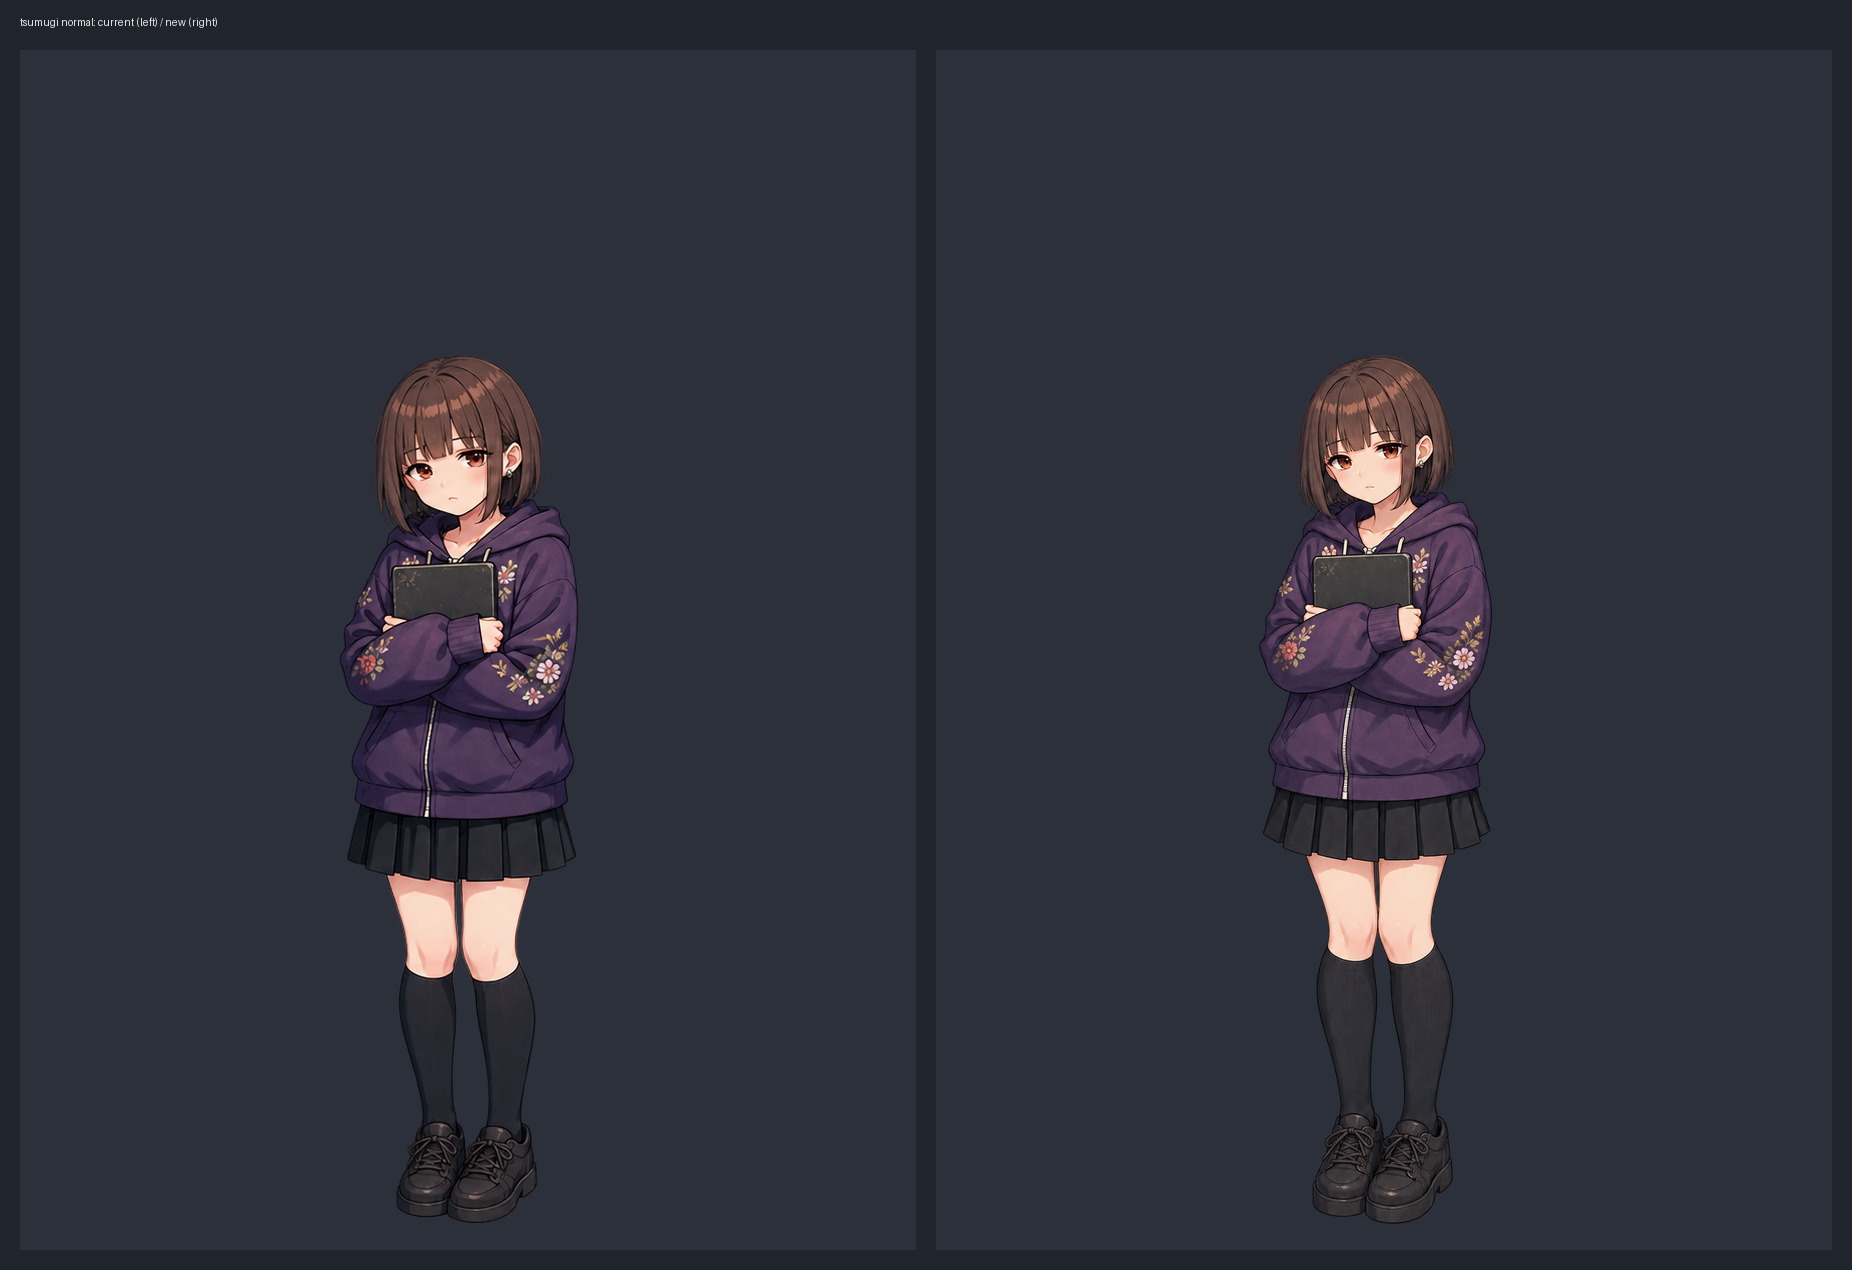
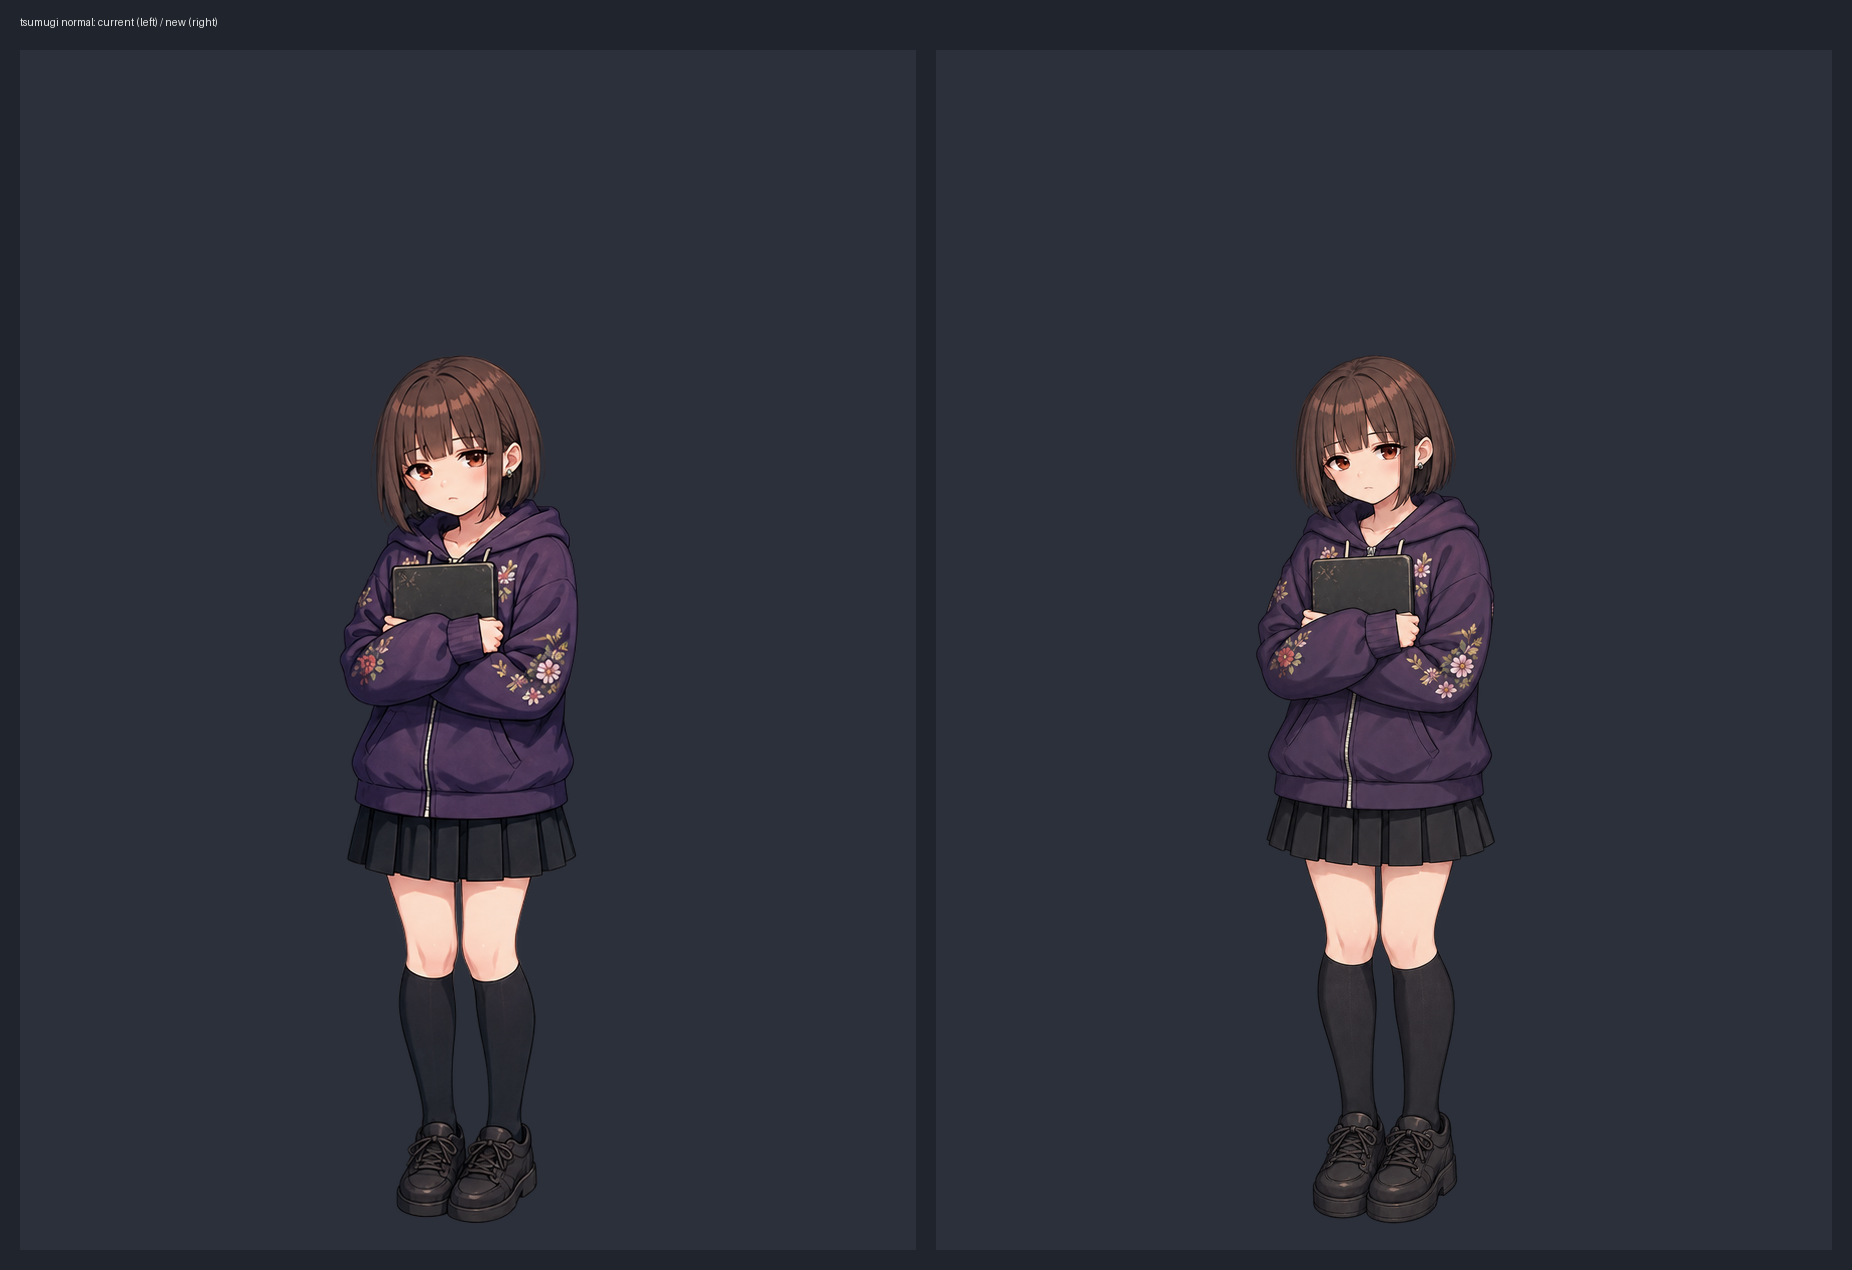
art: preserve stage-one trials and prefer Tsumugi rounder head

Changed region(s): [[0.6771, 0.2764, 0.8002, 0.7677], [0.7079, 0.8598, 0.8002, 0.952]]

diff --git a/asset_sources/portraits/resolution-upgrade-20261009/prompts.md b/asset_sources/portraits/resolution-upgrade-20261009/prompts.md
@@ -3,9 +3,11 @@
 [調査と方針](README.md)。2026-10-09 オーナー決定：**顔の大きさが中央値から±10%を超える6人だけ直す**／**画風はみんと・アゲハに合わせる**。
 1回の生成で1人・1表情。各ブロックの英文と、ブロックに書いたリポジトリの参照画像4枚で1回ずつ生成する。全34表情。参照画像は**エージェントがリポジトリから直接読み込む**（オーナーが保存・添付する必要はない）。
 
+> 2026-10-10 追記（要望台帳 PU02）：主目的は画風と解像度をそろえること。つむぎはやや頭が大きい方が可愛いという指定を優先し、頭の縮小率より丸さ・可愛さを保つ。つむぎの7ブロック末尾の追記が、以前の10%縮小指定に優先する。
+
 | キャラ | いまの顔の大きさ（中央値比） | 直し方 | 画風の直し | 表情数 |
 |---|---|---|---|---|
-| つむぎ | +18% | 頭を約10%小さく（丸さは残す。仕上がり目安+6%） | 基準に合わせる | 7 |
+| つむぎ | +18% | やや大きめの頭と丸さ・可愛さを優先。10%縮小は強制しない（2026-10-10追記） | 基準に合わせる | 7 |
 | 前園 | +17% | 頭を約14%小さく | 平たい塗り・太い線を基準へ | 5 |
 | スミさん | +15% | 頭（帽子込み）を約13%小さく | 基準に合わせる | 5 |
 | ましろ | +13% | 頭を約8%小さく（丸さは残す。仕上がり目安+4%） | 基準に合わせる | 6 |
@@ -78,6 +80,8 @@ Keep the same total figure height and the same overall silhouette and stance; on
 STYLE UNIFICATION: match the approved Minto and Ageha sprites - fine high-resolution pixel-like game-art texture, thin crisp dark ink lines, restrained matte multi-step shading, small hand-drawn grain, natural non-glossy highlights. Keep her soft quiet charm and warm brown eyes; do not make her look older. Keep a slightly round, soft face with full cheeks and her cute roundness: her head should still read a little larger and softer than Minto's.
 
 Output: ONE complete full-body figure on a tall canvas about 1085x1450, the figure itself at least 1300 px tall from the top of the head to the bottom of the shoes. Include all hair tips, both hands and both entire shoes, with clean transparent margins on every side. True RGBA transparent background, also between the limbs. No floor, cast shadow, glow, border, text, labels, grid or watermark. Not a glossy 3D render, airbrush, photo, blur, added noise or coarse retro pixels.
+
+Owner update 2026-10-10: prioritize matching resolution and rendering style; Tsumugi may retain a slightly oversized, soft round head close to image 1 because it looks cuter, so do not force the earlier 10% head reduction.
 ```
 
 ### 2. つむぎ・smile
@@ -98,6 +102,8 @@ Keep the same total figure height and the same overall silhouette and stance; on
 STYLE UNIFICATION: match the approved Minto and Ageha sprites - fine high-resolution pixel-like game-art texture, thin crisp dark ink lines, restrained matte multi-step shading, small hand-drawn grain, natural non-glossy highlights. Keep her soft quiet charm and warm brown eyes; do not make her look older. Keep a slightly round, soft face with full cheeks and her cute roundness: her head should still read a little larger and softer than Minto's.
 
 Output: ONE complete full-body figure on a tall canvas about 1085x1450, the figure itself at least 1300 px tall from the top of the head to the bottom of the shoes. Include all hair tips, both hands and both entire shoes, with clean transparent margins on every side. True RGBA transparent background, also between the limbs. No floor, cast shadow, glow, border, text, labels, grid or watermark. Not a glossy 3D render, airbrush, photo, blur, added noise or coarse retro pixels.
+
+Owner update 2026-10-10: prioritize matching resolution and rendering style; Tsumugi may retain a slightly oversized, soft round head close to image 1 because it looks cuter, so do not force the earlier 10% head reduction.
 ```
 
 ### 3. つむぎ・serious
@@ -118,6 +124,8 @@ Keep the same total figure height and the same overall silhouette and stance; on
 STYLE UNIFICATION: match the approved Minto and Ageha sprites - fine high-resolution pixel-like game-art texture, thin crisp dark ink lines, restrained matte multi-step shading, small hand-drawn grain, natural non-glossy highlights. Keep her soft quiet charm and warm brown eyes; do not make her look older. Keep a slightly round, soft face with full cheeks and her cute roundness: her head should still read a little larger and softer than Minto's.
 
 Output: ONE complete full-body figure on a tall canvas about 1085x1450, the figure itself at least 1300 px tall from the top of the head to the bottom of the shoes. Include all hair tips, both hands and both entire shoes, with clean transparent margins on every side. True RGBA transparent background, also between the limbs. No floor, cast shadow, glow, border, text, labels, grid or watermark. Not a glossy 3D render, airbrush, photo, blur, added noise or coarse retro pixels.
+
+Owner update 2026-10-10: prioritize matching resolution and rendering style; Tsumugi may retain a slightly oversized, soft round head close to image 1 because it looks cuter, so do not force the earlier 10% head reduction.
 ```
 
 ### 4. つむぎ・surprise
@@ -138,6 +146,8 @@ Keep the same total figure height and the same overall silhouette and stance; on
 STYLE UNIFICATION: match the approved Minto and Ageha sprites - fine high-resolution pixel-like game-art texture, thin crisp dark ink lines, restrained matte multi-step shading, small hand-drawn grain, natural non-glossy highlights. Keep her soft quiet charm and warm brown eyes; do not make her look older. Keep a slightly round, soft face with full cheeks and her cute roundness: her head should still read a little larger and softer than Minto's.
 
 Output: ONE complete full-body figure on a tall canvas about 1085x1450, the figure itself at least 1300 px tall from the top of the head to the bottom of the shoes. Include all hair tips, both hands and both entire shoes, with clean transparent margins on every side. True RGBA transparent background, also between the limbs. No floor, cast shadow, glow, border, text, labels, grid or watermark. Not a glossy 3D render, airbrush, photo, blur, added noise or coarse retro pixels.
+
+Owner update 2026-10-10: prioritize matching resolution and rendering style; Tsumugi may retain a slightly oversized, soft round head close to image 1 because it looks cuter, so do not force the earlier 10% head reduction.
 ```
 
 ### 5. つむぎ・sad
@@ -158,6 +168,8 @@ Keep the same total figure height and the same overall silhouette and stance; on
 STYLE UNIFICATION: match the approved Minto and Ageha sprites - fine high-resolution pixel-like game-art texture, thin crisp dark ink lines, restrained matte multi-step shading, small hand-drawn grain, natural non-glossy highlights. Keep her soft quiet charm and warm brown eyes; do not make her look older. Keep a slightly round, soft face with full cheeks and her cute roundness: her head should still read a little larger and softer than Minto's.
 
 Output: ONE complete full-body figure on a tall canvas about 1085x1450, the figure itself at least 1300 px tall from the top of the head to the bottom of the shoes. Include all hair tips, both hands and both entire shoes, with clean transparent margins on every side. True RGBA transparent background, also between the limbs. No floor, cast shadow, glow, border, text, labels, grid or watermark. Not a glossy 3D render, airbrush, photo, blur, added noise or coarse retro pixels.
+
+Owner update 2026-10-10: prioritize matching resolution and rendering style; Tsumugi may retain a slightly oversized, soft round head close to image 1 because it looks cuter, so do not force the earlier 10% head reduction.
 ```
 
 ### 6. つむぎ・evil
@@ -178,6 +190,8 @@ Keep the same total figure height and the same overall silhouette and stance; on
 STYLE UNIFICATION: match the approved Minto and Ageha sprites - fine high-resolution pixel-like game-art texture, thin crisp dark ink lines, restrained matte multi-step shading, small hand-drawn grain, natural non-glossy highlights. Keep her soft quiet charm and warm brown eyes; do not make her look older. Keep a slightly round, soft face with full cheeks and her cute roundness: her head should still read a little larger and softer than Minto's.
 
 Output: ONE complete full-body figure on a tall canvas about 1085x1450, the figure itself at least 1300 px tall from the top of the head to the bottom of the shoes. Include all hair tips, both hands and both entire shoes, with clean transparent margins on every side. True RGBA transparent background, also between the limbs. No floor, cast shadow, glow, border, text, labels, grid or watermark. Not a glossy 3D render, airbrush, photo, blur, added noise or coarse retro pixels.
+
+Owner update 2026-10-10: prioritize matching resolution and rendering style; Tsumugi may retain a slightly oversized, soft round head close to image 1 because it looks cuter, so do not force the earlier 10% head reduction.
 ```
 
 ### 7. つむぎ・bow
@@ -198,6 +212,8 @@ Keep the same total figure height and the same overall silhouette and stance; on
 STYLE UNIFICATION: match the approved Minto and Ageha sprites - fine high-resolution pixel-like game-art texture, thin crisp dark ink lines, restrained matte multi-step shading, small hand-drawn grain, natural non-glossy highlights. Keep her soft quiet charm and warm brown eyes; do not make her look older. Keep a slightly round, soft face with full cheeks and her cute roundness: her head should still read a little larger and softer than Minto's.
 
 Output: ONE complete full-body figure on a tall canvas about 1085x1450, the figure itself at least 1300 px tall from the top of the head to the bottom of the shoes. Include all hair tips, both hands and both entire shoes, with clean transparent margins on every side. True RGBA transparent background, also between the limbs. No floor, cast shadow, glow, border, text, labels, grid or watermark. Not a glossy 3D render, airbrush, photo, blur, added noise or coarse retro pixels.
+
+Owner update 2026-10-10: prioritize matching resolution and rendering style; Tsumugi may retain a slightly oversized, soft round head close to image 1 because it looks cuter, so do not force the earlier 10% head reduction.
 ```
 
 ## 前園（maezono）

diff --git a/docs/owner_requests.md b/docs/owner_requests.md
@@ -3,6 +3,7 @@
 | ID | 状態 | オーナー要望 |
 |---|---|---|
 | PU01 | 🔧 制作中 | 「立ち絵そろえ」を実行。portrait-unify の進捗表から段階1の #1 つむぎ・#29 サメちゃん・#8 前園の normal を生成し、原画・896×1200の確認用画像・比較画像・生成記録を作業ブランチへ保存する。3枚がそろったところで採否の確認へ回す。 |
+| PU02 | 🔧 反映中 | 主目的は画風・解像度をそろえること。つむぎはやや頭が大きい方が可愛いので、頭の縮小率にこだわらず、少し大きめの頭・丸さ・可愛さを優先する。つむぎ7表情の生成指示へ追記し、normal の確認候補にも反映する。 |
 
 ---
 
